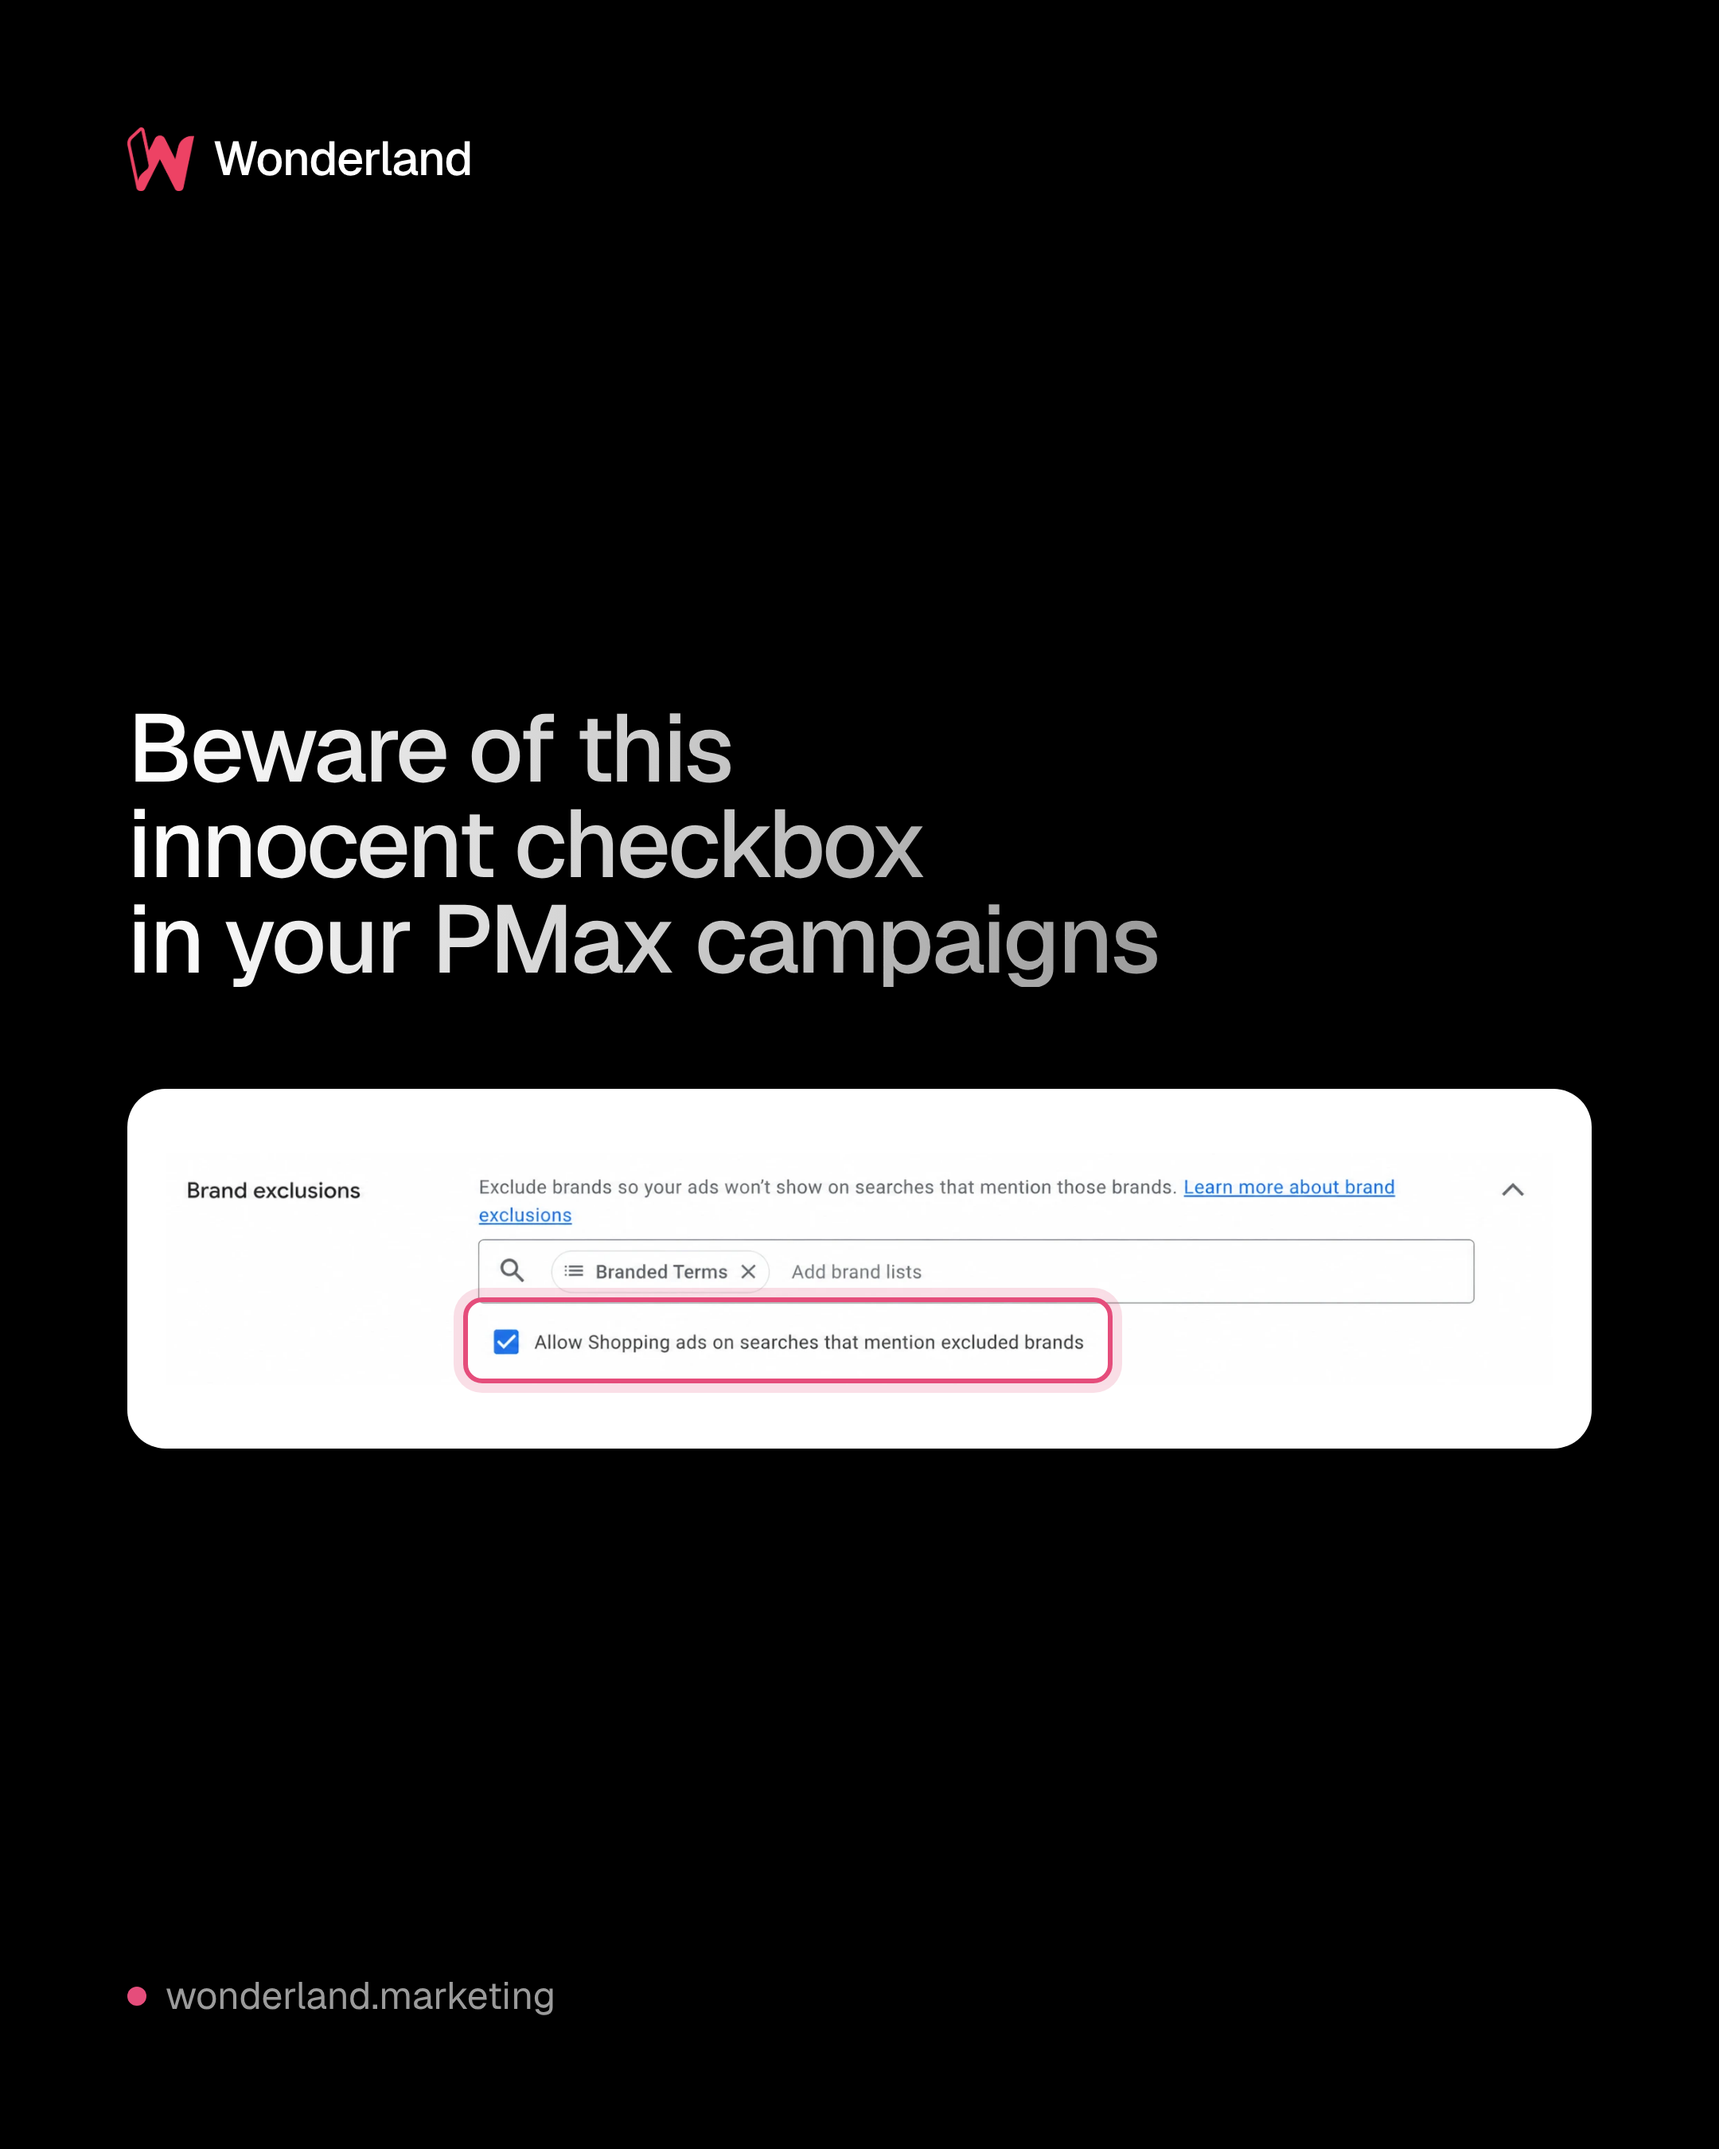
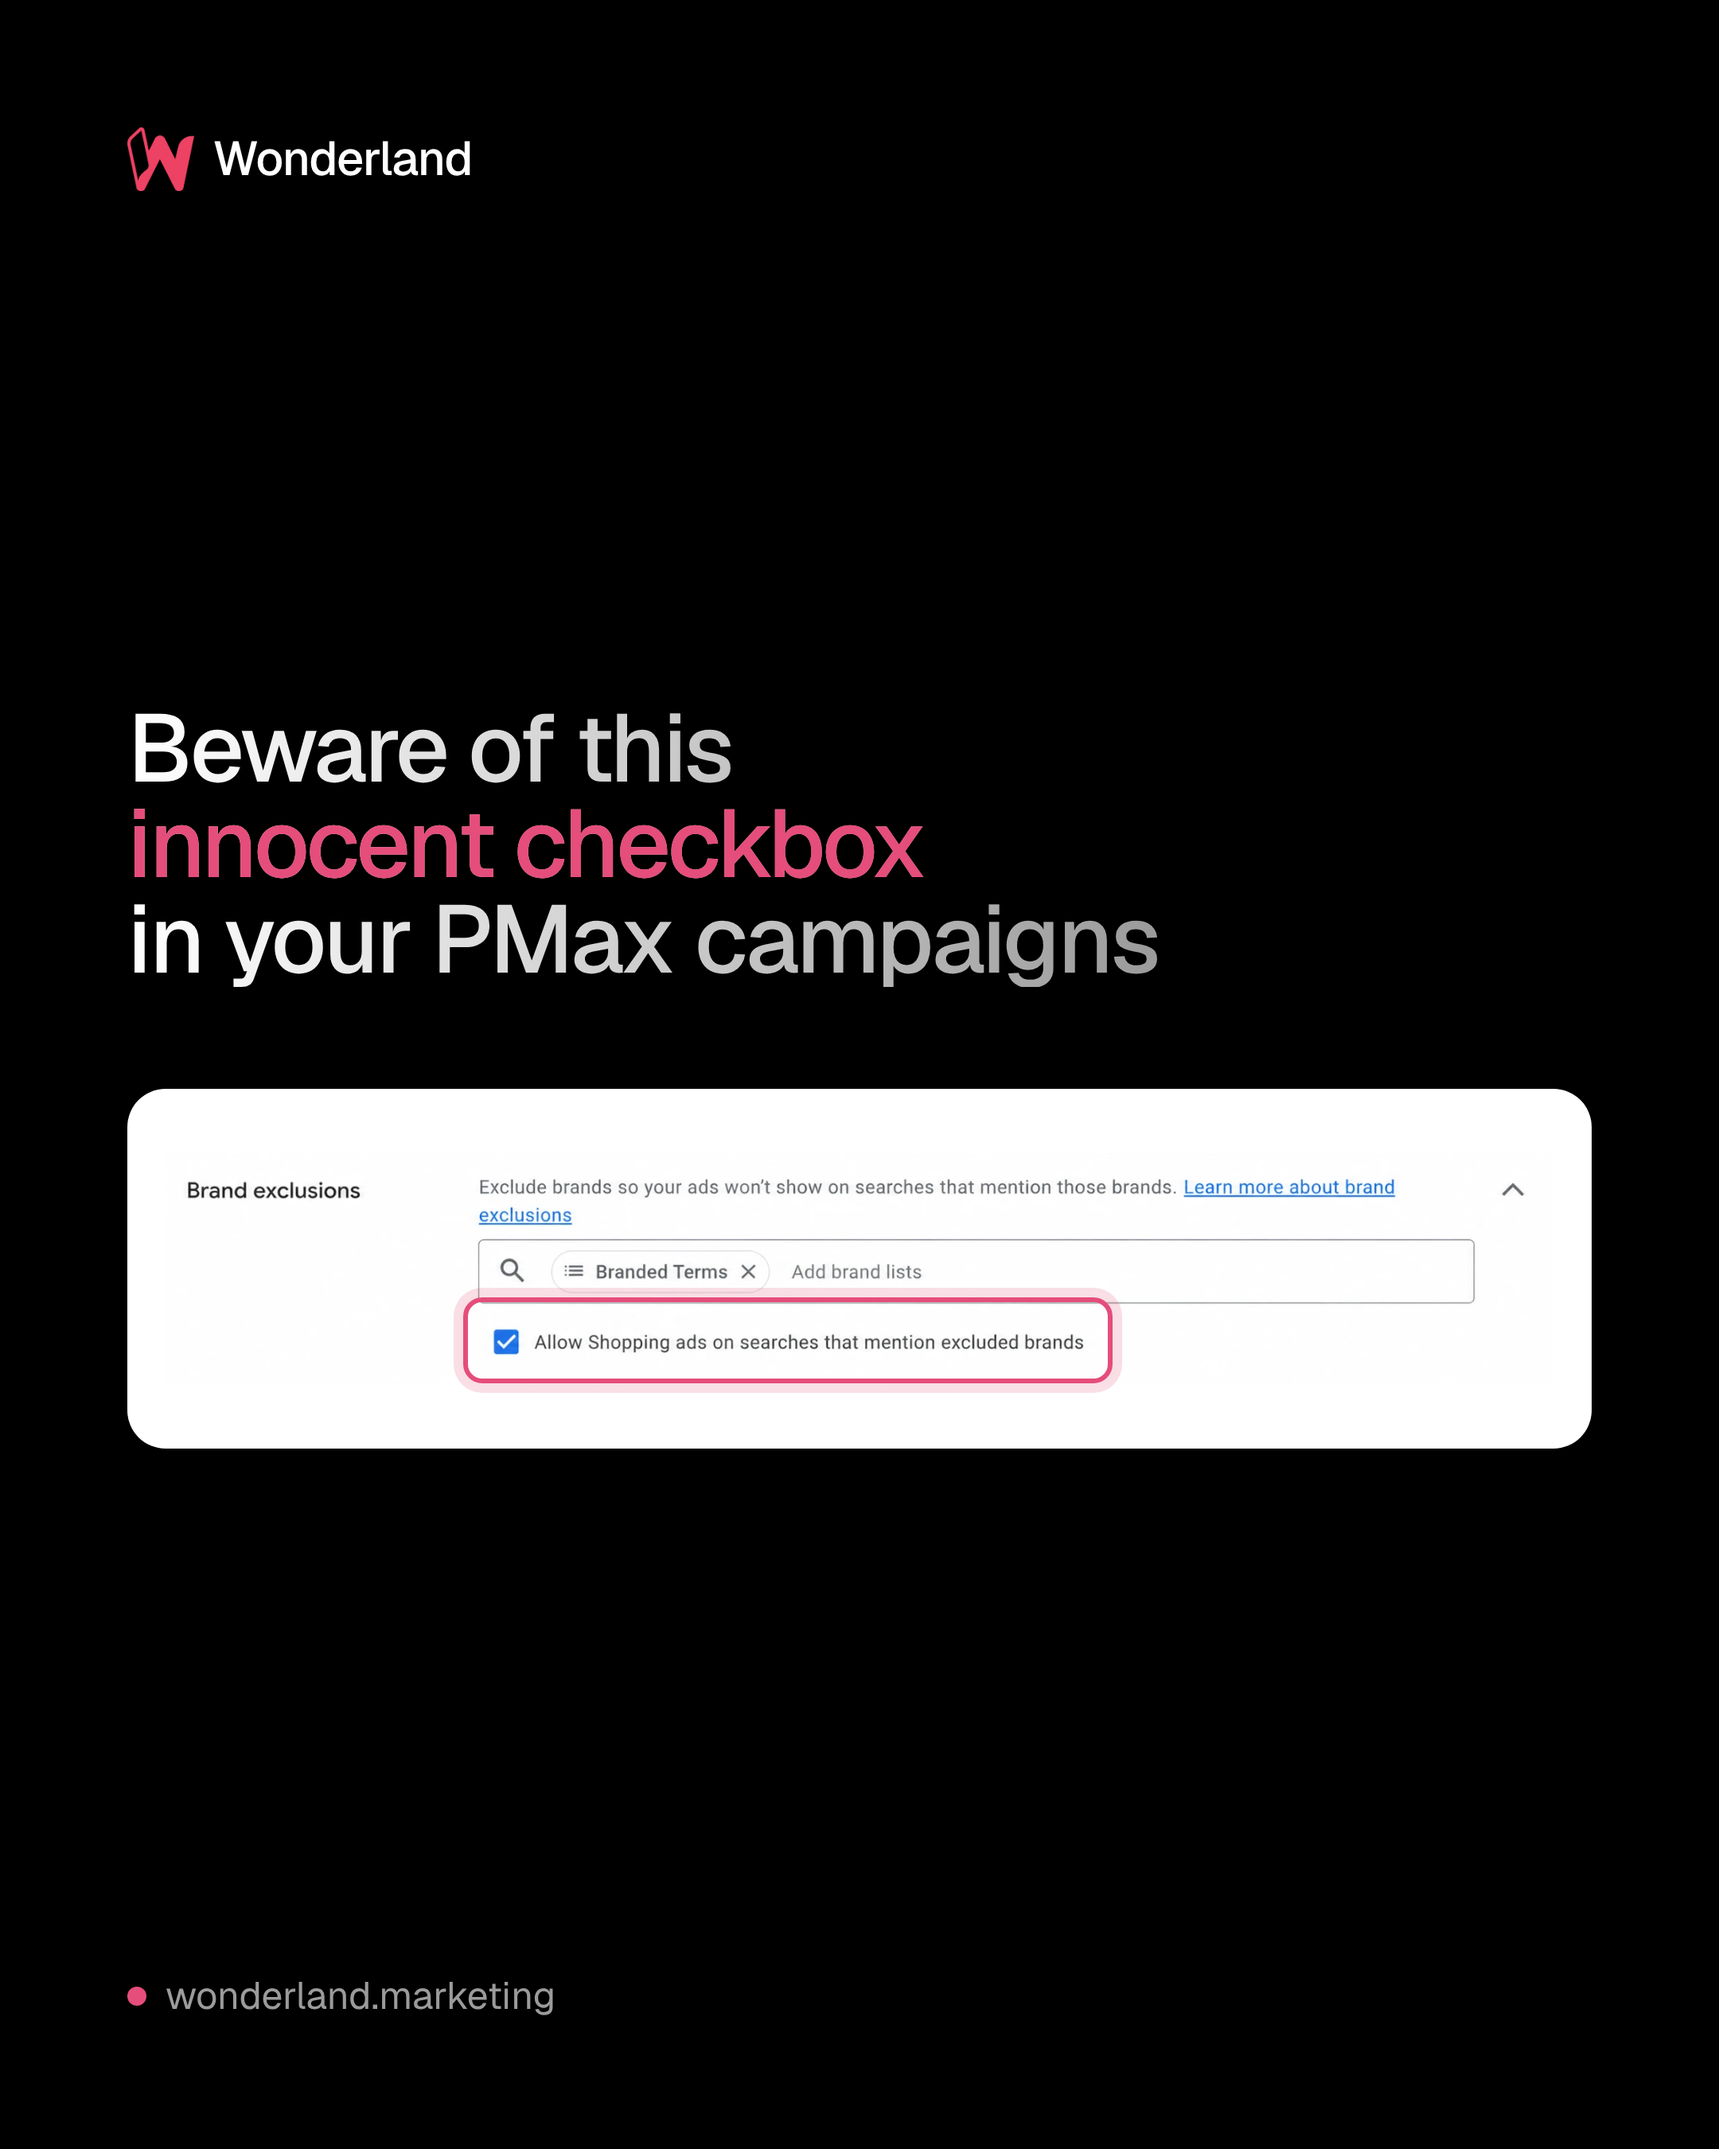
Add fuchsia accent to headline in skill variant
Claude-Session: https://claude.ai/code/session_01GmuALp36MAm8YJYmwJ5Ddd

Changed region(s): [[0.062, 0.3733, 0.5273, 0.4044]]

diff --git a/drafts/pmax-checkbox-post/index-skill.html b/drafts/pmax-checkbox-post/index-skill.html
@@ -27,6 +27,7 @@
        background: linear-gradient(90deg, #FFFFFF, #9B9B9B); -webkit-background-clip: text; background-clip: text; color: transparent; }
 
   h1 span { display: block; white-space: nowrap; }
+  h1 .hl { color: var(--fuchsia); -webkit-text-fill-color: var(--fuchsia); }
   .card { position: absolute; left: var(--s-800); right: var(--s-800); top: 684px;
           background: #fff; border-radius: 24px; padding: var(--s-500) var(--s-300); }
   .img { position: relative; }
@@ -43,7 +44,7 @@
 <div class="canvas">
   <div class="lockup"><img src="icon.png" alt=""><span>Wonderland</span></div>
 
-  <h1><span>Beware of this</span><span>innocent checkbox</span><span>in your PMax campaigns</span></h1>
+  <h1><span>Beware of this</span><span class="hl">innocent checkbox</span><span>in your PMax campaigns</span></h1>
 
   <div class="card">
     <div class="img">
